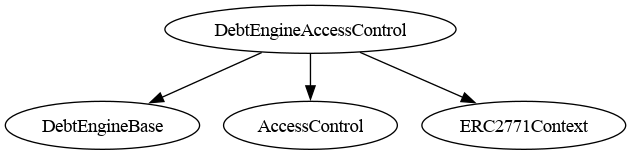
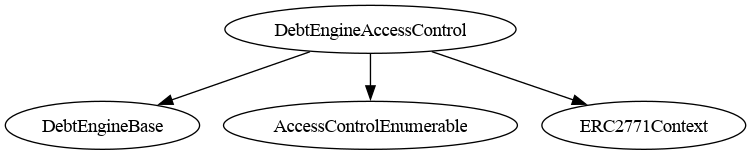
refactor: make auth hooks view with modifier overrides, use Ownable2Step and AccessControlEnumerable

diff --git a/README.md b/README.md
@@ -63,8 +63,8 @@ The DebtEngine uses a layered architecture:
 
 - **`DebtEngineBase`** (abstract) — contains all business logic, mappings, events, and authorization hooks. Does not depend on any specific access control mechanism or meta-transaction standard.
 - **Deployment contracts** — concrete contracts that wire in access control and ERC-2771 support:
-  - **`DebtEngineAccessControl`** — uses OpenZeppelin `AccessControl` (RBAC) with granular `DEBT_MANAGER_ROLE` and `CREDIT_EVENTS_MANAGER_ROLE`.
-  - **`DebtEngineOwnable`** — uses OpenZeppelin `Ownable` (single owner controls everything).
+  - **`DebtEngineAccessControl`** — uses OpenZeppelin `AccessControlEnumerable` (RBAC, role holders listable on-chain) with granular `DEBT_MANAGER_ROLE` and `CREDIT_EVENTS_MANAGER_ROLE`.
+  - **`DebtEngineOwnable`** — uses OpenZeppelin `Ownable2Step` (single owner controls everything; two-step ownership transfer).
 
 ## Functions
 
@@ -90,7 +90,14 @@ The DebtEngine uses a layered architecture:
 
 ## Access Control
 
-Authorization is pluggable via two internal hooks (`_authorizeSetDebt` and `_authorizeSetCreditEvents`) defined in `DebtEngineBase`. Each deployment variant implements these hooks differently.
+Authorization is pluggable via two `internal view virtual` hooks (`_authorizeSetDebt` and `_authorizeSetCreditEvents`) declared without a body in `DebtEngineBase`: the base decides **what** is protected, each deployment contract decides **who** may do it. Each override has an empty body and carries the check in its modifier (`onlyRole(...)` or `onlyOwner`), which resolves the caller through `_msgSender()` (ERC-2771 aware).
+
+| Capability | Functions | Hook | `DebtEngineAccessControl` | `DebtEngineOwnable` |
+| --- | --- | --- | --- | --- |
+| Debt management | `setDebt`, `setDebtBatch` | `_authorizeSetDebt` | `DEBT_MANAGER_ROLE` (or `DEFAULT_ADMIN_ROLE`) | owner |
+| Credit-events management | `setCreditEvents`, `setCreditEventsBatch` | `_authorizeSetCreditEvents` | `CREDIT_EVENTS_MANAGER_ROLE` (or `DEFAULT_ADMIN_ROLE`) | owner |
+
+The variant is chosen at deployment: the two contracts are not interchangeable at a deployed address, and the policy cannot be swapped afterwards. The pattern makes access control pluggable, not more decentralised: a single admin or owner key can still rewrite every debt and credit-event record.
 
 ### DebtEngineAccessControl (RBAC)
 
@@ -100,11 +107,13 @@ Authorization is pluggable via two internal hooks (`_authorizeSetDebt` and `_aut
 | `DEBT_MANAGER_ROLE` | Can call `setDebt` and `setDebtBatch` |
 | `CREDIT_EVENTS_MANAGER_ROLE` | Can call `setCreditEvents` and `setCreditEventsBatch` |
 
-> **Note:** The `DEFAULT_ADMIN_ROLE` is a super-admin. Any account holding this role is treated as holding every role implicitly. This is **not** reflected by `getRoleMemberCount` or `getRoleMembers`.
+> **Note:** The `DEFAULT_ADMIN_ROLE` is a super-admin. Any account holding this role is treated as holding every role implicitly. This implicit membership is not recorded: `getRoleMember`, `getRoleMemberCount` and `getRoleMembers` (from `AccessControlEnumerable`) do not list the admin under `DEBT_MANAGER_ROLE` or `CREDIT_EVENTS_MANAGER_ROLE`, and no `RoleGranted` event is emitted for it, so tools listing role holders will not show the admin. Role separation therefore constrains operators, never the admin.
 
 ### DebtEngineOwnable (Single Owner)
 
-The owner can call all restricted functions. Ownership can be transferred via `transferOwnership` or permanently renounced via `renounceOwnership`.
+The owner can call all restricted functions. Ownership transfer is two-step (`Ownable2Step`): `transferOwnership` only records a `pendingOwner`, and control moves when that address calls `acceptOwnership`, so a mistyped address cannot take over the contract. Ownership can also be permanently renounced via `renounceOwnership`.
+
+Every hook collapses to `onlyOwner`, so this variant cannot separate duties (e.g. let one operator manage debt but not credit events); use `DebtEngineAccessControl` when that is required.
 
 ## Compatibility
 
@@ -170,8 +179,8 @@ This interface can be found in [CMTAT/contracts/interfaces/engine/IDebtEngine.so
 | └ | setCreditEvents | External ❗ | 🛑  | onlyCreditEventsManager |
 | └ | setCreditEventsBatch | External ❗ | 🛑  | onlyCreditEventsManager |
 | └ | setDebtBatch | External ❗ | 🛑  | onlyDebtManager |
-| └ | _authorizeSetDebt | Internal 🔒 | 🛑  | |
-| └ | _authorizeSetCreditEvents | Internal 🔒 | 🛑  | |
+| └ | _authorizeSetDebt | Internal 🔒 |   | |
+| └ | _authorizeSetCreditEvents | Internal 🔒 |   | |
 | └ | _msgSender | Internal 🔒 |   | |
 
 #### VersionModule
@@ -189,10 +198,10 @@ This interface can be found in [CMTAT/contracts/interfaces/engine/IDebtEngine.so
 |:----------:|:-------------------:|:----------------:|:----------------:|:---------------:|
 |     └      |  **Function Name**  |  **Visibility**  |  **Mutability**  |  **Modifiers**  |
 ||||||
-| **DebtEngineAccessControl** | Implementation | DebtEngineBase, AccessControl, ERC2771Context |||
+| **DebtEngineAccessControl** | Implementation | DebtEngineBase, AccessControlEnumerable, ERC2771Context |||
 | └ | <Constructor> | Public ❗ | 🛑  | ERC2771Context |
-| └ | _authorizeSetDebt | Internal 🔒 |   | |
-| └ | _authorizeSetCreditEvents | Internal 🔒 |   | |
+| └ | _authorizeSetDebt | Internal 🔒 |   | onlyRole |
+| └ | _authorizeSetCreditEvents | Internal 🔒 |   | onlyRole |
 | └ | hasRole | Public ❗ |   |NO❗ |
 | └ | _msgSender | Internal 🔒 |   | |
 | └ | _msgData | Internal 🔒 |   | |
@@ -204,10 +213,10 @@ This interface can be found in [CMTAT/contracts/interfaces/engine/IDebtEngine.so
 |:----------:|:-------------------:|:----------------:|:----------------:|:---------------:|
 |     └      |  **Function Name**  |  **Visibility**  |  **Mutability**  |  **Modifiers**  |
 ||||||
-| **DebtEngineOwnable** | Implementation | DebtEngineBase, Ownable, ERC2771Context |||
+| **DebtEngineOwnable** | Implementation | DebtEngineBase, Ownable2Step, ERC2771Context |||
 | └ | <Constructor> | Public ❗ | 🛑  | ERC2771Context Ownable |
-| └ | _authorizeSetDebt | Internal 🔒 |   | |
-| └ | _authorizeSetCreditEvents | Internal 🔒 |   | |
+| └ | _authorizeSetDebt | Internal 🔒 |   | onlyOwner |
+| └ | _authorizeSetCreditEvents | Internal 🔒 |   | onlyOwner |
 | └ | _msgSender | Internal 🔒 |   | |
 | └ | _msgData | Internal 🔒 |   | |
 | └ | _contextSuffixLength | Internal 🔒 |   | |

diff --git a/AGENTS.md b/AGENTS.md
@@ -38,8 +38,8 @@ DebtEngine is an external engine for the [CMTAT](https://github.com/CMTA/CMTAT) 
 ## Key concepts
 
 - **Abstract base + deployment variants:** `DebtEngineBase` holds all storage and logic; authorization is delegated to two hooks, `_authorizeSetDebt()` and `_authorizeSetCreditEvents()`, which must revert when the caller is not allowed (used by the `onlyDebtManager` / `onlyCreditEventsManager` modifiers).
-- **`DebtEngineAccessControl`** (RBAC, OpenZeppelin `AccessControl`): roles `DEBT_MANAGER_ROLE` and `CREDIT_EVENTS_MANAGER_ROLE`; `hasRole` is overridden so `DEFAULT_ADMIN_ROLE` implicitly holds every role. Constructor rejects a zero `admin`.
-- **`DebtEngineOwnable`** (OpenZeppelin `Ownable`): the owner is the only writer for both debt and credit events.
+- **`DebtEngineAccessControl`** (RBAC, OpenZeppelin `AccessControlEnumerable`): roles `DEBT_MANAGER_ROLE` and `CREDIT_EVENTS_MANAGER_ROLE`; `hasRole` is overridden so `DEFAULT_ADMIN_ROLE` implicitly holds every role (this implicit membership is not listed by `getRoleMember*`). Constructor rejects a zero `admin`.
+- **`DebtEngineOwnable`** (OpenZeppelin `Ownable2Step`): the owner is the only writer for both debt and credit events; ownership transfer requires `acceptOwnership` by the new owner.
 - **ERC-2771 meta-transactions:** only the deployment contracts inherit `ERC2771Context`; the base defines a virtual `_msgSender()` returning `msg.sender`. The forwarder is set in the constructor and is **immutable**; `address(0)` disables it.
 - **Getters:** `debt()` / `creditEvents()` (for the caller), `debt(address)` / `creditEvents(address)`, and `hasDebt(address)` / `hasCreditEvents(address)` to distinguish "never set" from "set to empty".
 - **Setters:** `setDebt`, `setCreditEvents`, `setDebtBatch`, `setCreditEventsBatch`; emit `DebtSet` / `CreditEventsSet`; reject `address(0)` targets; batches capped by `MAX_BATCH_SIZE = 500` and require equal array lengths.
@@ -56,8 +56,8 @@ src/
 ├── modules/
 │   └── VersionModule.sol                 # abstract: private VERSION constant + version() getter (CMTAT BaseModule pattern)
 └── deployment/
-    ├── DebtEngineAccessControl.sol       # RBAC variant (AccessControl + ERC2771Context)
-    └── DebtEngineOwnable.sol             # Ownable variant (Ownable + ERC2771Context)
+    ├── DebtEngineAccessControl.sol       # RBAC variant (AccessControlEnumerable + ERC2771Context)
+    └── DebtEngineOwnable.sol             # single-owner variant (Ownable2Step + ERC2771Context)
 test/
 ├── DebtEngineBase.t.sol                  # abstract shared suite (DebtEngineBaseTest), incl. CMTATStandaloneDebt integration
 ├── DebtEngineAccessControl.t.sol         # role-specific tests for the RBAC variant
@@ -101,6 +101,7 @@ bash doc/script/script_surya_graph.sh && bash doc/script/script_surya_inheritanc
 
 - **Versioning:** bump the private `VERSION` constant in `src/modules/VersionModule.sol`, the `testVersion` assertion in `test/DebtEngineBase.t.sol` and the README compatibility table; follow the checklist in `CHANGELOG.md`.
 - **Changelog tags:** keepachangelog types plus `breaking change` (storage / external engine interface), `Dependencies`, `Documentation`, `Testing`.
+- **Authorization hooks:** declared `internal view virtual` with no body in `DebtEngineBase`; every override keeps `internal view virtual override`, has an empty body and enforces the policy through the modifier (`onlyRole(ROLE)` / `onlyOwner`), never a bare `_checkRole` / `_checkOwner` call. Role constants live in the contract that enforces them (`DebtEngineAccessControl`), never in shared storage. The README access-control table (capability → role per variant) must be updated with any new hook.
 - **New authorization policy:** add a deployment contract under `src/deployment/` that implements both `_authorize*` hooks and the `_msgSender` / `_msgData` / `_contextSuffixLength` overrides; add a test contract that extends `DebtEngineBaseTest`.
 - **Must not break:** the `IDebtEngine` interface (CMTAT calls it), zero-address checks, `MAX_BATCH_SIZE` and length checks on batches, event emission on every write.
 - **Style:** NatSpec with `/** */`, section banners as in existing files, function modifier order `internal view override`; run `forge fmt` before committing.

diff --git a/CLAUDE.md b/CLAUDE.md
@@ -38,8 +38,8 @@ DebtEngine is an external engine for the [CMTAT](https://github.com/CMTA/CMTAT) 
 ## Key concepts
 
 - **Abstract base + deployment variants:** `DebtEngineBase` holds all storage and logic; authorization is delegated to two hooks, `_authorizeSetDebt()` and `_authorizeSetCreditEvents()`, which must revert when the caller is not allowed (used by the `onlyDebtManager` / `onlyCreditEventsManager` modifiers).
-- **`DebtEngineAccessControl`** (RBAC, OpenZeppelin `AccessControl`): roles `DEBT_MANAGER_ROLE` and `CREDIT_EVENTS_MANAGER_ROLE`; `hasRole` is overridden so `DEFAULT_ADMIN_ROLE` implicitly holds every role. Constructor rejects a zero `admin`.
-- **`DebtEngineOwnable`** (OpenZeppelin `Ownable`): the owner is the only writer for both debt and credit events.
+- **`DebtEngineAccessControl`** (RBAC, OpenZeppelin `AccessControlEnumerable`): roles `DEBT_MANAGER_ROLE` and `CREDIT_EVENTS_MANAGER_ROLE`; `hasRole` is overridden so `DEFAULT_ADMIN_ROLE` implicitly holds every role (this implicit membership is not listed by `getRoleMember*`). Constructor rejects a zero `admin`.
+- **`DebtEngineOwnable`** (OpenZeppelin `Ownable2Step`): the owner is the only writer for both debt and credit events; ownership transfer requires `acceptOwnership` by the new owner.
 - **ERC-2771 meta-transactions:** only the deployment contracts inherit `ERC2771Context`; the base defines a virtual `_msgSender()` returning `msg.sender`. The forwarder is set in the constructor and is **immutable**; `address(0)` disables it.
 - **Getters:** `debt()` / `creditEvents()` (for the caller), `debt(address)` / `creditEvents(address)`, and `hasDebt(address)` / `hasCreditEvents(address)` to distinguish "never set" from "set to empty".
 - **Setters:** `setDebt`, `setCreditEvents`, `setDebtBatch`, `setCreditEventsBatch`; emit `DebtSet` / `CreditEventsSet`; reject `address(0)` targets; batches capped by `MAX_BATCH_SIZE = 500` and require equal array lengths.
@@ -56,8 +56,8 @@ src/
 ├── modules/
 │   └── VersionModule.sol                 # abstract: private VERSION constant + version() getter (CMTAT BaseModule pattern)
 └── deployment/
-    ├── DebtEngineAccessControl.sol       # RBAC variant (AccessControl + ERC2771Context)
-    └── DebtEngineOwnable.sol             # Ownable variant (Ownable + ERC2771Context)
+    ├── DebtEngineAccessControl.sol       # RBAC variant (AccessControlEnumerable + ERC2771Context)
+    └── DebtEngineOwnable.sol             # single-owner variant (Ownable2Step + ERC2771Context)
 test/
 ├── DebtEngineBase.t.sol                  # abstract shared suite (DebtEngineBaseTest), incl. CMTATStandaloneDebt integration
 ├── DebtEngineAccessControl.t.sol         # role-specific tests for the RBAC variant
@@ -101,6 +101,7 @@ bash doc/script/script_surya_graph.sh && bash doc/script/script_surya_inheritanc
 
 - **Versioning:** bump the private `VERSION` constant in `src/modules/VersionModule.sol`, the `testVersion` assertion in `test/DebtEngineBase.t.sol` and the README compatibility table; follow the checklist in `CHANGELOG.md`.
 - **Changelog tags:** keepachangelog types plus `breaking change` (storage / external engine interface), `Dependencies`, `Documentation`, `Testing`.
+- **Authorization hooks:** declared `internal view virtual` with no body in `DebtEngineBase`; every override keeps `internal view virtual override`, has an empty body and enforces the policy through the modifier (`onlyRole(ROLE)` / `onlyOwner`), never a bare `_checkRole` / `_checkOwner` call. Role constants live in the contract that enforces them (`DebtEngineAccessControl`), never in shared storage. The README access-control table (capability → role per variant) must be updated with any new hook.
 - **New authorization policy:** add a deployment contract under `src/deployment/` that implements both `_authorize*` hooks and the `_msgSender` / `_msgData` / `_contextSuffixLength` overrides; add a test contract that extends `DebtEngineBaseTest`.
 - **Must not break:** the `IDebtEngine` interface (CMTAT calls it), zero-address checks, `MAX_BATCH_SIZE` and length checks on batches, event emission on every write.
 - **Style:** NatSpec with `/** */`, section banners as in existing files, function modifier order `internal view override`; run `forge fmt` before committing.

diff --git a/CHANGELOG.md b/CHANGELOG.md
@@ -63,8 +63,8 @@ Branch: `dev` (not yet released, commit hash to be added on release)
 
 ### Added
 
-- Add `DebtEngineAccessControl` deployment variant (OpenZeppelin `AccessControl`)
-- Add `DebtEngineOwnable` deployment variant (OpenZeppelin `Ownable`)
+- Add `DebtEngineAccessControl` deployment variant (OpenZeppelin `AccessControlEnumerable`, role holders listable on-chain)
+- Add `DebtEngineOwnable` deployment variant (OpenZeppelin `Ownable2Step`, two-step ownership transfer)
 - Add `VersionModule` (`src/modules/VersionModule.sol`) exposing `version()`
 - Add `DebtSet` and `CreditEventsSet` events on state changes
 - Add zero-address validation on `smartContract_` parameter (`SmartContractWithAddressZeroNotAllowed`)
@@ -75,6 +75,7 @@ Branch: `dev` (not yet released, commit hash to be added on release)
 
 - Refactor into abstract `DebtEngineBase` with pluggable authorization hooks (`_authorizeSetDebt`, `_authorizeSetCreditEvents`)
 - Move ERC-2771 support from base to deployment contracts
+- Declare the authorization hooks `internal view virtual` and implement every override with an empty body guarded by `onlyRole(...)` / `onlyOwner` instead of direct `_checkRole` / `_checkOwner` calls (no behaviour change)
 - Change `DebtEngineInvariantStorage` to `abstract contract`
 - Pin compiler settings in `foundry.toml`: solc `0.8.33`, optimizer (200 runs), EVM version `prague`
 
@@ -96,6 +97,7 @@ Branch: `dev` (not yet released, commit hash to be added on release)
 
 - Document `hasRole` super-admin behavior in NatSpec and README
 - Document ERC-2771 forwarder immutability in README
+- Document the authorization-hook convention and a capability → role table per deployment variant in README
 - Surya scripts now write to `doc/surya` and can be run from any directory; diagrams and reports regenerated for the new contracts
 - Move the Slither report to `doc/tools/slither-report.md` and add an Aderyn report (`doc/tools/aderyn-report.md`)
 - Add agent guide (`CLAUDE.md` / `AGENTS.md`) and `doc/tools/CLAUDE_ANALYSIS_SUMMARY.md`
@@ -105,6 +107,9 @@ Branch: `dev` (not yet released, commit hash to be added on release)
 
 - Split tests into a shared abstract suite (`DebtEngineBaseTest`) run against both deployment variants
 - Add `version()` test
+- Add role-separation tests (`DEBT_MANAGER_ROLE` cannot set credit events and vice versa) and a role-constant test for `DebtEngineAccessControl`
+- Add role-enumeration, implicit-admin-not-enumerated and ERC-165 tests for `DebtEngineAccessControl`
+- Add two-step ownership handover tests for `DebtEngineOwnable`
 - Adapt the CMTAT deployment in the test setup to CMTAT v3.0.0 (`BaseModuleAttributes` renamed to `ExtraInformationAttributes`)
 
 ## v0.2.0

diff --git a/doc/surya/surya_report/surya_report_DebtEngineAccessControl.sol.md b/doc/surya/surya_report/surya_report_DebtEngineAccessControl.sol.md
@@ -15,10 +15,10 @@
 |:----------:|:-------------------:|:----------------:|:----------------:|:---------------:|
 |     └      |  **Function Name**  |  **Visibility**  |  **Mutability**  |  **Modifiers**  |
 ||||||
-| **DebtEngineAccessControl** | Implementation | DebtEngineBase, AccessControl, ERC2771Context |||
+| **DebtEngineAccessControl** | Implementation | DebtEngineBase, AccessControlEnumerable, ERC2771Context |||
 | └ | <Constructor> | Public ❗ | 🛑  | ERC2771Context |
-| └ | _authorizeSetDebt | Internal 🔒 |   | |
-| └ | _authorizeSetCreditEvents | Internal 🔒 |   | |
+| └ | _authorizeSetDebt | Internal 🔒 |   | onlyRole |
+| └ | _authorizeSetCreditEvents | Internal 🔒 |   | onlyRole |
 | └ | hasRole | Public ❗ |   |NO❗ |
 | └ | _msgSender | Internal 🔒 |   | |
 | └ | _msgData | Internal 🔒 |   | |

diff --git a/doc/surya/surya_report/surya_report_DebtEngineOwnable.sol.md b/doc/surya/surya_report/surya_report_DebtEngineOwnable.sol.md
@@ -15,10 +15,10 @@
 |:----------:|:-------------------:|:----------------:|:----------------:|:---------------:|
 |     └      |  **Function Name**  |  **Visibility**  |  **Mutability**  |  **Modifiers**  |
 ||||||
-| **DebtEngineOwnable** | Implementation | DebtEngineBase, Ownable, ERC2771Context |||
+| **DebtEngineOwnable** | Implementation | DebtEngineBase, Ownable2Step, ERC2771Context |||
 | └ | <Constructor> | Public ❗ | 🛑  | ERC2771Context Ownable |
-| └ | _authorizeSetDebt | Internal 🔒 |   | |
-| └ | _authorizeSetCreditEvents | Internal 🔒 |   | |
+| └ | _authorizeSetDebt | Internal 🔒 |   | onlyOwner |
+| └ | _authorizeSetCreditEvents | Internal 🔒 |   | onlyOwner |
 | └ | _msgSender | Internal 🔒 |   | |
 | └ | _msgData | Internal 🔒 |   | |
 | └ | _contextSuffixLength | Internal 🔒 |   | |

diff --git a/doc/surya/surya_report/surya_report_DebtEngineBase.sol.md b/doc/surya/surya_report/surya_report_DebtEngineBase.sol.md
@@ -26,8 +26,8 @@
 | └ | setCreditEvents | External ❗ | 🛑  | onlyCreditEventsManager |
 | └ | setCreditEventsBatch | External ❗ | 🛑  | onlyCreditEventsManager |
 | └ | setDebtBatch | External ❗ | 🛑  | onlyDebtManager |
-| └ | _authorizeSetDebt | Internal 🔒 | 🛑  | |
-| └ | _authorizeSetCreditEvents | Internal 🔒 | 🛑  | |
+| └ | _authorizeSetDebt | Internal 🔒 |   | |
+| └ | _authorizeSetCreditEvents | Internal 🔒 |   | |
 | └ | _msgSender | Internal 🔒 |   | |
 
 
